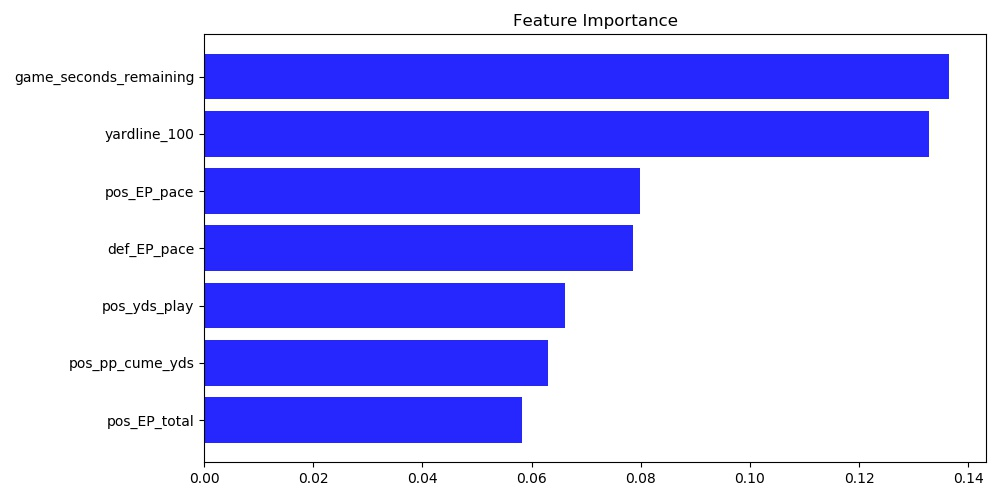
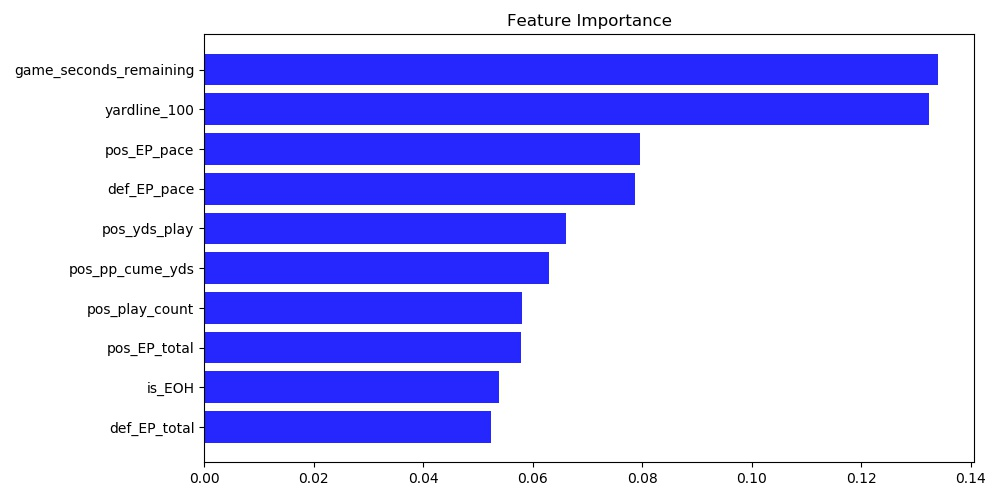
1st play FI again

diff --git a/src/RF2.py b/src/RF2.py
@@ -42,7 +42,7 @@ if __name__ == '__main__':
     #pprint(report)
 
     feat_imp_idx = np.argsort(rf.feature_importances_)[::-1]
-    plot_feat_imp(feat_imp_idx, features, rf.feature_importances_, 7, 'images/rf2.jpeg')
+    plot_feat_imp(feat_imp_idx, features, rf.feature_importances_, 10, 'images/rf2.jpeg')
     
     # Attempt at partial dependence -- failed.....
     # target_dict = {'TD': 0, 'FG': 1, 'punt': 2, 'other': 3}
